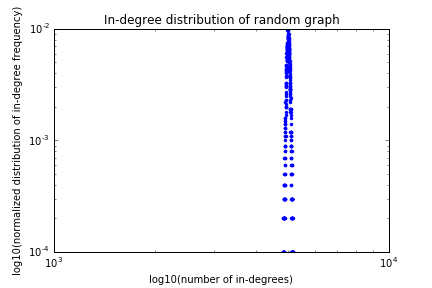
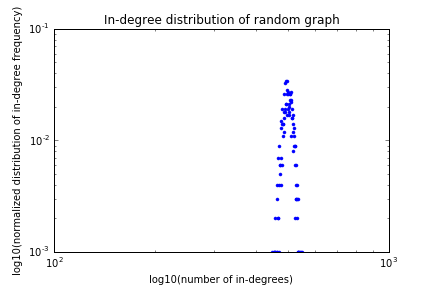
Final - DPA graph & graph gen

diff --git a/DPAGraphGen.py b/DPAGraphGen.py
@@ -7,53 +7,85 @@ and probability. Graphing, too!
 """
 
 import random
+import RandGraphGen as rgg
 import DegDistroGraphsALT2 as ddg
 import matplotlib.pyplot as plt
 
-class Dir_Graph:
-    def __init__(self, num_nodes, probability):
-        self.nodes = range(num_nodes)        
-        self.prob = probability
-        self.graph = {}
-        for node in self.nodes:
-            self.graph[node] = set([])
+
+class DPATrial:
+    """
+    Simple class to encapsulate optimized trials for DPA algorithm
+    
+    Maintains a list of node numbers with multiple instances of each number.
+    The number of instances of each node number are
+    in the same proportion as the desired probabilities
+    
+    Uses random.choice() to select a node number from this list for each trial.
+    """
+
+    def __init__(self, num_nodes):
+        """
+        Initialize a DPATrial object corresponding to a 
+        complete graph with num_nodes nodes
         
-    def get_prob(self):
-        return self.prob
-    
-    def get_nodes(self):
-        return self.graph.keys()
-    
-    def get_edges(self):
-        return self.graph.values()
-    
-    def get_graph(self):
-        return self.graph
-    
-    def gen_edges(self):
-        for i in self.nodes:
-            for j in self.nodes:               
-                if j == i:
-                    pass
-                else:     
-                    chance = random.random()
-                    if chance < self.prob:
-                        self.graph[i].add(j)
-        return self.graph
+        Note the initial list of node numbers has num_nodes copies of
+        each node number
+        """
+        self._num_nodes = num_nodes     
+        self._node_numbers = [node for node in range(num_nodes) for dummy_idx in range(num_nodes)]   
+   
+   
+    def run_trial(self, num_nodes):
+        """
+        Conduct num_node trials using by applying random.choice()
+        to the list of node numbers
+        
+        Updates the list of node numbers so that the number of instances of
+        each node number is in the same ratio as the desired probabilities
+        
+        Returns:
+        Set of nodes
+        """
+        
+        # compute the neighbors for the newly-created node
+        new_node_neighbors = set()
+        for dummy_idx in range(num_nodes):
+            new_node_neighbors.add(random.choice(self._node_numbers))
+        
+        # update the list of node numbers so that each node number 
+        # appears in the correct ratio
+        self._node_numbers.append(self._num_nodes)
+        self._node_numbers.extend(list(new_node_neighbors))
+        
+        #update the number of nodes
+        self._num_nodes += 1
+        return new_node_neighbors
+        
+        
+def dpa_gen(num_nodes, exist_nodes):
 
-# Test graphs
-#dir_graph1000 = Dir_Graph(10000, .5)
-#dir_graph1000.gen_edges()
+# Generate a fully connected directed graph based on existing nodes input
+    graph_base = rgg.Dir_Graph(exist_nodes, 1)
+    digraph = graph_base.gen_edges()
+    new_graph = digraph.copy()
+    trial = DPATrial(exist_nodes)
+    
+    # Generate and connect additional nodes
+    for new_node in xrange(exist_nodes, num_nodes):  
+        connect = trial.run_trial(exist_nodes)
+        new_graph[new_node] = connect
+    
+    #return direction DPA graph
+    return new_graph
 
-# Function to create DPA graphs, where n is the total number of nodes,
-# and m is size of the the existing cluster (origin, subset of n)
-def DPA(total_nodes, )
-
-
+        
+# Test graphs for DPA
+dpa_graph = dpa_gen(27770, 179)
+#print dpa_graph
 
 # Run in-degree distriubtion on randomly generated graph
-dg1000_idd = ddg.in_degree_distribution(REPLACEME.get_graph())
-
+dpa_idd = ddg.in_degree_distribution(dpa_graph)
+#print dpa_idd
 
 # Function to normalize in-degree distribution
 def normal_idd(idd):
@@ -65,8 +97,8 @@ def normal_idd(idd):
 
 
 # Run in-degree distribution on citation graph data
-n_dg1000_idd = normal_idd(dg1000_idd)
-
+n_dpa_idd = normal_idd(dpa_idd)
+#print n_dpa_idd
 
 # Function to remove a given element from dictionary
 def remove_elem(dictionary, key):
@@ -79,12 +111,12 @@ def remove_elem(dictionary, key):
 
 
 # Remove nodes with in-degree of zero
-ndg1000_nozero = remove_elem(n_dg1000_idd, 0)
-
+dpa_nozero = remove_elem(n_dpa_idd, 0)
+#print dpa_nozero
 
 # Plot log/log of the points of the normalized distribution
-plt.loglog(ndg1000_nozero.keys(), ndg1000_nozero.values(), linestyle='None', marker=".")
+plt.loglog(dpa_nozero.keys(), dpa_nozero.values(), linestyle='None', marker=".")
 plt.xlabel("log10(number of in-degrees)")
 plt.ylabel("log10(normalized distribution of in-degree frequency)")
-plt.title("In-degree distribution of random graph")
-plt.savefig("DPA graph")
+plt.title("In-degree distribution of DPA graph")
+plt.savefig("dpa graph")

diff --git a/RandGraphGen.py b/RandGraphGen.py
@@ -74,11 +74,11 @@ class Dir_Graph:
         return self.graph
 
 # Test graphs
-dir_graph1000 = Dir_Graph(10000, .5)
-dir_graph1000.gen_edges()
+#dir_graph1000 = Dir_Graph(1000, .5)
+#dir_graph1000.gen_edges()
 
 # Run in-degree distriubtion on randomly generated graph
-dg1000_idd = ddg.in_degree_distribution(dir_graph1000.get_graph())
+#dg1000_idd = ddg.in_degree_distribution(dir_graph1000.get_graph())
 
 
 # Function to normalize in-degree distribution
@@ -91,7 +91,7 @@ def normal_idd(idd):
 
 
 # Run in-degree distribution on citation graph data
-n_dg1000_idd = normal_idd(dg1000_idd)
+#n_dg1000_idd = normal_idd(dg1000_idd)
 
 
 # Function to remove a given element from dictionary
@@ -105,13 +105,13 @@ def remove_elem(dictionary, key):
 
 
 # Remove nodes with in-degree of zero
-ndg1000_nozero = remove_elem(n_dg1000_idd, 0)
+#ndg1000_nozero = remove_elem(n_dg1000_idd, 0)
 
 
 # Plot log/log of the points of the normalized distribution
-plt.loglog(ndg1000_nozero.keys(), ndg1000_nozero.values(), linestyle='None', marker=".")
-plt.xlabel("log10(number of in-degrees)")
-plt.ylabel("log10(normalized distribution of in-degree frequency)")
-plt.title("In-degree distribution of random graph")
-plt.savefig("random directed graph")
+#plt.loglog(ndg1000_nozero.keys(), ndg1000_nozero.values(), linestyle='None', marker=".")
+#plt.xlabel("log10(number of in-degrees)")
+#plt.ylabel("log10(normalized distribution of in-degree frequency)")
+#plt.title("In-degree distribution of random graph")
+#plt.savefig("random directed graph")
 

diff --git a/DegDistroGraphsALT2.py b/DegDistroGraphsALT2.py
@@ -59,9 +59,10 @@ def compute_in_degrees(digraph):
         values += list(digraph[key])
         cid[key] = 0
     
-    for value in values:
+    for value in values:     
         cid[value] += 1
     return cid
+
     
 #print compute_in_degrees(EX_GRAPH0)
 #print compute_in_degrees(EX_GRAPH1)

diff --git a/NormCitGraph.py b/NormCitGraph.py
@@ -85,6 +85,8 @@ nci_nozero = remove_elem(n_cit_idd, 0)
 
 # Calculate average out-degree
 cit_odd = ddg.out_degree_distribution(citation_graph)
+print sum(cit_odd.values())
+print len(cit_odd.values())
 avg_cit_odd = (sum(cit_odd.values()))/(len(cit_odd.values()))
 print "HERE!", avg_cit_odd
 
